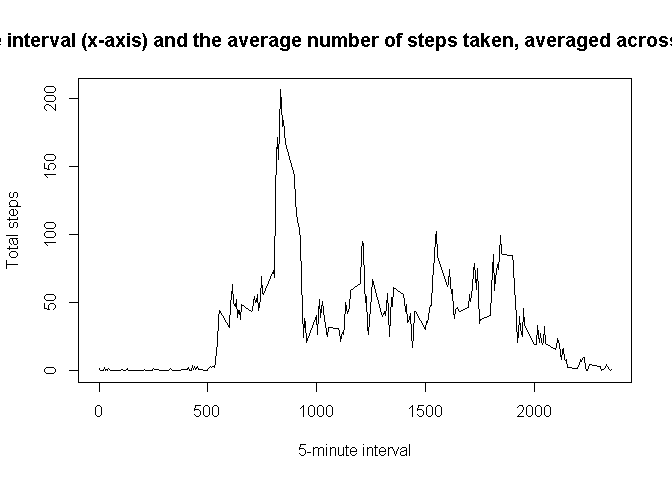
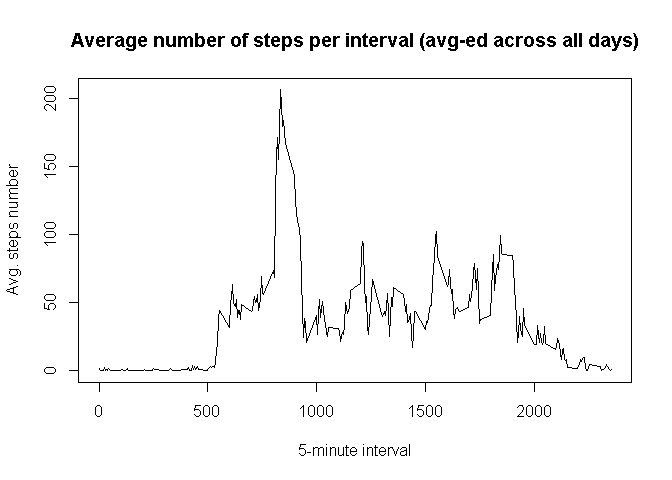
Third questions

Changed region(s): [[0.0, 0.0625, 1.0, 0.125], [0.0, 0.3438, 0.0312, 0.5938]]

diff --git a/PA1_template.html b/PA1_template.html
@@ -98,42 +98,106 @@ with(list(d = total.steps.per.day), {
 })</code></pre>
[1 lines of base64/hex data omitted]
 <p>Mean of the total number of steps taken per day:</p>
-<pre class="r"><code>mean(total.steps.per.day[[&quot;total.steps&quot;]])</code></pre>
-<pre><code>## [1] 9354.23</code></pre>
+<pre class="r"><code># Vector of dates without measurements
+empty.dates &lt;- activities.data.table[, all(is.na(steps)), by = date][V1 == T][[&quot;date&quot;]]
+# Excluding empty dates
+normal.total.steps.per.day &lt;- total.steps.per.day[!(date %in% empty.dates)]
+mean.total.steps.per.day &lt;- mean(normal.total.steps.per.day[[&quot;total.steps&quot;]])
+print(mean.total.steps.per.day)</code></pre>
+<pre><code>## [1] 10766.19</code></pre>
 <p>Median of the total number of steps taken per day:</p>
-<pre class="r"><code>median(total.steps.per.day[[&quot;total.steps&quot;]])</code></pre>
-<pre><code>## [1] 10395</code></pre>
+<pre class="r"><code># Excluding empty dates
+median.total.steps.per.day &lt;- median(normal.total.steps.per.day[[&quot;total.steps&quot;]])
+print(median.total.steps.per.day)</code></pre>
+<pre><code>## [1] 10765</code></pre>
 </div>
 <div id="what-is-the-average-daily-activity-pattern" class="section level2">
 <h2>What is the average daily activity pattern?</h2>
 <p>The 5-minute interval (x-axis) and the average number of steps taken, averaged across all days (y-axis)</p>
 <pre class="r"><code>avg.steps.number.per.interval &lt;- activities.data.table[, mean(steps, na.rm = T), by = interval]
 with(list(d = avg.steps.number.per.interval), {
-    d[, total.steps := V1]; d[, V1 := NULL]
+    d[, total.steps := V1]
     plot(total.steps ~ interval, data = d, type = &quot;l&quot;,
-         main = &quot;The 5-minute interval (x-axis) and the average number of steps taken, averaged across all days (y-axis)&quot;,
-         xlab = &quot;5-minute interval&quot;, ylab = &quot;Total steps&quot;)
+         main = &quot;Average number of steps per interval (avg-ed across all days)&quot;,
+         xlab = &quot;5-minute interval&quot;, ylab = &quot;Avg. steps number&quot;)
 })</code></pre>
[1 lines of base64/hex data omitted]
-<p>Average steps per interval summary</p>
-<pre class="r"><code>summary(avg.steps.number.per.interval)</code></pre>
-<pre><code>##     interval       total.steps     
-##  Min.   :   0.0   Min.   :  0.000  
-##  1st Qu.: 588.8   1st Qu.:  2.486  
-##  Median :1177.5   Median : 34.113  
-##  Mean   :1177.5   Mean   : 37.383  
-##  3rd Qu.:1766.2   3rd Qu.: 52.835  
-##  Max.   :2355.0   Max.   :206.170</code></pre>
-<p>Interval, on average across all the days in the dataset, contains the maximum number of steps</p>
[1 lines of base64/hex data omitted]
+<p>Interval, on average across all the days in the dataset, contains the maximum number of steps:</p>
 <pre class="r"><code>with(list(d = avg.steps.number.per.interval), {
     max.interval.row &lt;- d[which.max(d[[&quot;total.steps&quot;]])]
     print(max.interval.row)
 })</code></pre>
-<pre><code>##    interval total.steps
-## 1:      835    206.1698</code></pre>
+<pre><code>##    interval       V1 total.steps
+## 1:      835 206.1698    206.1698</code></pre>
 </div>
 <div id="imputing-missing-values" class="section level2">
 <h2>Imputing missing values</h2>
+<p>Total number of missing values in the dataset:</p>
+<pre class="r"><code>total.na.count &lt;- sum(is.na(activities.data.table[[&quot;steps&quot;]]))
+sprintf(&quot;%.0f%%&quot;, total.na.count * 100 / nrow(activities.data.table))</code></pre>
+<pre><code>## [1] &quot;13%&quot;</code></pre>
+<p>Total number of days with some missing values:</p>
+<pre class="r"><code>sum(activities.data.table[, any(is.na(steps)), by = date][[&quot;V1&quot;]])</code></pre>
+<pre><code>## [1] 8</code></pre>
+<p>Total number of days without measurements at all:</p>
+<pre class="r"><code>sum(activities.data.table[, all(is.na(steps)), by = date][[&quot;V1&quot;]])</code></pre>
+<pre><code>## [1] 8</code></pre>
+<p>The whole days are missing. That’s why the <em>average number of steps per day</em> will be appropriate estimation for missing values:</p>
+<p><em>Before imputing:</em></p>
+<pre class="r"><code>summary(activities.data.table)</code></pre>
+<pre><code>##      steps             date               interval     
+##  Min.   :  0.00   Min.   :2012-10-01   Min.   :   0.0  
+##  1st Qu.:  0.00   1st Qu.:2012-10-16   1st Qu.: 588.8  
+##  Median :  0.00   Median :2012-10-31   Median :1177.5  
+##  Mean   : 37.38   Mean   :2012-10-31   Mean   :1177.5  
+##  3rd Qu.: 12.00   3rd Qu.:2012-11-15   3rd Qu.:1766.2  
+##  Max.   :806.00   Max.   :2012-11-30   Max.   :2355.0  
+##  NA's   :2304</code></pre>
+<p><em>After imputing:</em></p>
+<pre class="r"><code>intervals.per.day &lt;- activities.data.table[, .N, by = date][1][[&quot;N&quot;]]
+# Estimation
+mean.total.steps.per.interval &lt;- mean.total.steps.per.day / intervals.per.day
+
+# Corrected/imputed activities
+activities.imputed &lt;- data.table(activities.data.table)
+invisible({
+    activities.imputed[, steps := as.numeric(steps)]
+    activities.imputed[is.na(steps), steps := mean.total.steps.per.interval]
+})
+summary(activities.imputed)</code></pre>
+<pre><code>##      steps             date               interval     
+##  Min.   :  0.00   Min.   :2012-10-01   Min.   :   0.0  
+##  1st Qu.:  0.00   1st Qu.:2012-10-16   1st Qu.: 588.8  
+##  Median :  0.00   Median :2012-10-31   Median :1177.5  
+##  Mean   : 37.38   Mean   :2012-10-31   Mean   :1177.5  
+##  3rd Qu.: 37.38   3rd Qu.:2012-11-15   3rd Qu.:1766.2  
+##  Max.   :806.00   Max.   :2012-11-30   Max.   :2355.0</code></pre>
+<p><em>Imputed data histogram</em> of the total number of steps taken each day <em>compared</em> to actual data:</p>
+<pre class="r"><code>total.steps.per.day.imputed &lt;- activities.imputed[, sum(steps), by = date]
+invisible({
+    with(list(d = total.steps.per.day.imputed), {
+        d[, total.steps := V1]
+        d[, V1 := NULL]
+        d[, imputed := T]
+    })
+    total.steps.per.day[, imputed := FALSE]
+})
+with(list(d = rbind(total.steps.per.day.imputed, total.steps.per.day)), {
+    #g &lt;- ggplot(d, aes(date, total.steps, color = imputed)) +
+    #    geom_histogram(d[imputed == F], fill = &quot;red&quot;, alpha = 0.3) +
+    #    geom_histogram(d[imputed == T], fill = &quot;green&quot;, alpha = 0.3)
+    #print(g)
+})</code></pre>
+<pre><code>## NULL</code></pre>
+<p><em>Imputed data mean</em> of the total number of steps taken per day <em>compared</em> to actual value:</p>
+<pre class="r"><code>sprintf(&quot;Imputed vs Actual: %.1f vs %.1f&quot;, mean(total.steps.per.day.imputed[[&quot;total.steps&quot;]]),
+        mean.total.steps.per.day)</code></pre>
+<pre><code>## [1] &quot;Imputed vs Actual: 10766.2 vs 10766.2&quot;</code></pre>
+<p>So the mean has not changed … as expected.</p>
+<p><em>Imputed data median</em> of the total number of steps taken per day <em>compared</em> to actual value:</p>
+<pre class="r"><code>sprintf(&quot;Imputed vs Actual: %.1f vs %.1f&quot;, median(total.steps.per.day.imputed[[&quot;total.steps&quot;]]),
+        median.total.steps.per.day)</code></pre>
+<pre><code>## [1] &quot;Imputed vs Actual: 10766.2 vs 10765.0&quot;</code></pre>
 </div>
 <div id="are-there-differences-in-activity-patterns-between-weekdays-and-weekends" class="section level2">
 <h2>Are there differences in activity patterns between weekdays and weekends?</h2>

diff --git a/PA1_template.md b/PA1_template.md
@@ -53,22 +53,29 @@ Mean of the total number of steps taken per day:
 
 
 ```r
-mean(total.steps.per.day[["total.steps"]])
+# Vector of dates without measurements
+empty.dates <- activities.data.table[, all(is.na(steps)), by = date][V1 == T][["date"]]
+# Excluding empty dates
+normal.total.steps.per.day <- total.steps.per.day[!(date %in% empty.dates)]
+mean.total.steps.per.day <- mean(normal.total.steps.per.day[["total.steps"]])
+print(mean.total.steps.per.day)
 ```
 
 ```
-## [1] 9354.23
+## [1] 10766.19
 ```
 
 Median of the total number of steps taken per day:
 
 
 ```r
-median(total.steps.per.day[["total.steps"]])
+# Excluding empty dates
+median.total.steps.per.day <- median(normal.total.steps.per.day[["total.steps"]])
+print(median.total.steps.per.day)
 ```
 
 ```
-## [1] 10395
+## [1] 10765
 ```
 
 ## What is the average daily activity pattern?
@@ -79,33 +86,17 @@ The 5-minute interval (x-axis) and the average number of steps taken, averaged a
 ```r
 avg.steps.number.per.interval <- activities.data.table[, mean(steps, na.rm = T), by = interval]
 with(list(d = avg.steps.number.per.interval), {
-    d[, total.steps := V1]; d[, V1 := NULL]
+    d[, total.steps := V1]
     plot(total.steps ~ interval, data = d, type = "l",
-         main = "The 5-minute interval (x-axis) and the average number of steps taken, averaged across all days (y-axis)",
-         xlab = "5-minute interval", ylab = "Total steps")
+         main = "Average number of steps per interval (avg-ed across all days)",
+         xlab = "5-minute interval", ylab = "Avg. steps number")
 })
 ```
 
 ![](PA1_template_files/figure-html/unnamed-chunk-6-1.png) 
 
-Average steps per interval summary
 
-
-```r
-summary(avg.steps.number.per.interval)
-```
-
-```
-##     interval       total.steps     
-##  Min.   :   0.0   Min.   :  0.000  
-##  1st Qu.: 588.8   1st Qu.:  2.486  
-##  Median :1177.5   Median : 34.113  
-##  Mean   :1177.5   Mean   : 37.383  
-##  3rd Qu.:1766.2   3rd Qu.: 52.835  
-##  Max.   :2355.0   Max.   :206.170
-```
-
-Interval, on average across all the days in the dataset, contains the maximum number of steps
+Interval, on average across all the days in the dataset, contains the maximum number of steps:
 
 
 ```r
@@ -116,12 +107,142 @@ with(list(d = avg.steps.number.per.interval), {
 ```
 
 ```
-##    interval total.steps
-## 1:      835    206.1698
+##    interval       V1 total.steps
+## 1:      835 206.1698    206.1698
 ```
 
 ## Imputing missing values
 
+Total number of missing values in the dataset:
 
+
+```r
+total.na.count <- sum(is.na(activities.data.table[["steps"]]))
+sprintf("%.0f%%", total.na.count * 100 / nrow(activities.data.table))
+```
+
+```
+## [1] "13%"
+```
+
+Total number of days with some missing values:
+
+
+```r
+sum(activities.data.table[, any(is.na(steps)), by = date][["V1"]])
+```
+
+```
+## [1] 8
+```
+
+Total number of days without measurements at all:
+
+
+```r
+sum(activities.data.table[, all(is.na(steps)), by = date][["V1"]])
+```
+
+```
+## [1] 8
+```
+
+The whole days are missing. That's why the *average number of steps per day* will be appropriate estimation for missing values:
+
+*Before imputing:*
+
+
+```r
+summary(activities.data.table)
+```
+
+```
+##      steps             date               interval     
+##  Min.   :  0.00   Min.   :2012-10-01   Min.   :   0.0  
+##  1st Qu.:  0.00   1st Qu.:2012-10-16   1st Qu.: 588.8  
+##  Median :  0.00   Median :2012-10-31   Median :1177.5  
+##  Mean   : 37.38   Mean   :2012-10-31   Mean   :1177.5  
+##  3rd Qu.: 12.00   3rd Qu.:2012-11-15   3rd Qu.:1766.2  
+##  Max.   :806.00   Max.   :2012-11-30   Max.   :2355.0  
+##  NA's   :2304
+```
+
+*After imputing:*
+
+
+```r
+intervals.per.day <- activities.data.table[, .N, by = date][1][["N"]]
+# Estimation
+mean.total.steps.per.interval <- mean.total.steps.per.day / intervals.per.day
+
+# Corrected/imputed activities
+activities.imputed <- data.table(activities.data.table)
+invisible({
+    activities.imputed[, steps := as.numeric(steps)]
+    activities.imputed[is.na(steps), steps := mean.total.steps.per.interval]
+})
+summary(activities.imputed)
+```
+
+```
+##      steps             date               interval     
+##  Min.   :  0.00   Min.   :2012-10-01   Min.   :   0.0  
+##  1st Qu.:  0.00   1st Qu.:2012-10-16   1st Qu.: 588.8  
+##  Median :  0.00   Median :2012-10-31   Median :1177.5  
+##  Mean   : 37.38   Mean   :2012-10-31   Mean   :1177.5  
+##  3rd Qu.: 37.38   3rd Qu.:2012-11-15   3rd Qu.:1766.2  
+##  Max.   :806.00   Max.   :2012-11-30   Max.   :2355.0
+```
+
+*Imputed data histogram* of the total number of steps taken each day *compared* to actual data:
+
+
+```r
+total.steps.per.day.imputed <- activities.imputed[, sum(steps), by = date]
+invisible({
+    with(list(d = total.steps.per.day.imputed), {
+        d[, total.steps := V1]
+        d[, V1 := NULL]
+        d[, imputed := T]
+    })
+    total.steps.per.day[, imputed := FALSE]
+})
+with(list(d = rbind(total.steps.per.day.imputed, total.steps.per.day)), {
+    #g <- ggplot(d, aes(date, total.steps, color = imputed)) +
+    #    geom_histogram(d[imputed == F], fill = "red", alpha = 0.3) +
+    #    geom_histogram(d[imputed == T], fill = "green", alpha = 0.3)
+    #print(g)
+})
+```
+
+```
+## NULL
+```
+
+*Imputed data mean* of the total number of steps taken per day *compared* to actual value:
+
+
+```r
+sprintf("Imputed vs Actual: %.1f vs %.1f", mean(total.steps.per.day.imputed[["total.steps"]]),
+        mean.total.steps.per.day)
+```
+
+```
+## [1] "Imputed vs Actual: 10766.2 vs 10766.2"
+```
+
+So the mean has not changed ... as expected.
+
+*Imputed data median* of the total number of steps taken per day *compared* to actual value:
+
+
+```r
+sprintf("Imputed vs Actual: %.1f vs %.1f", median(total.steps.per.day.imputed[["total.steps"]]),
+        median.total.steps.per.day)
+```
+
+```
+## [1] "Imputed vs Actual: 10766.2 vs 10765.0"
+```
 
 ## Are there differences in activity patterns between weekdays and weekends?
